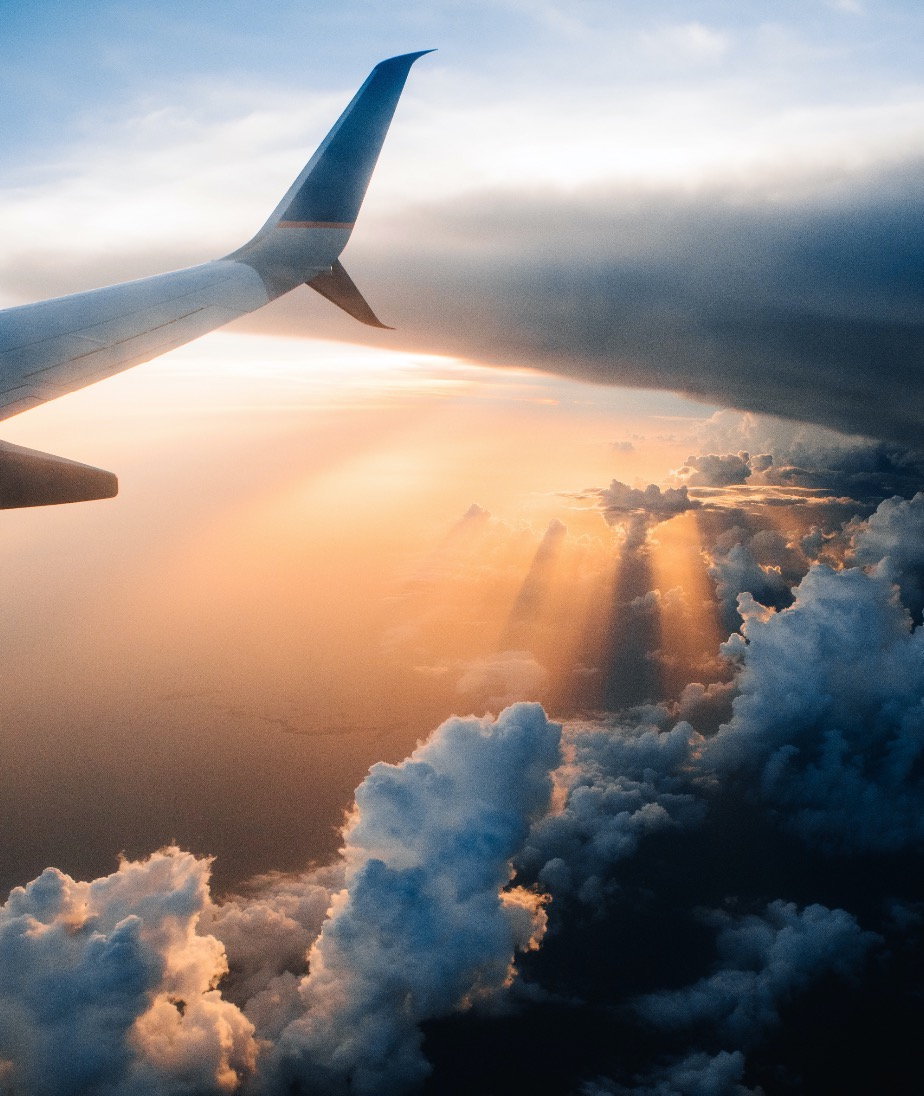
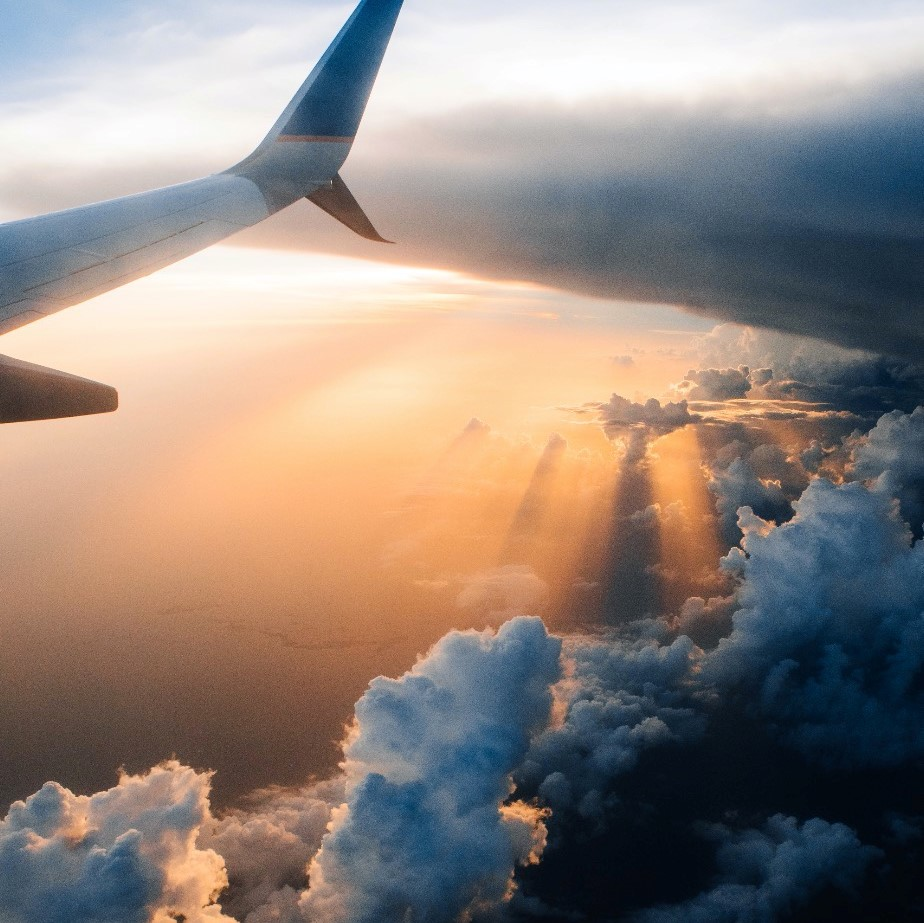
закончил интро

diff --git a/index.html b/index.html
@@ -30,8 +30,12 @@
 
     <main class="content">
 
-      <section class="lead">
-        
+      <section class="intro">
+        <div class="intro__text">
+          <h1 class="intro__heading">Куда я поеду</h1>
+          <h2 class="intro__title">Куда я поеду сразу, как можно будет куда-то поехать</h2>
+        </div>
+        <img class="intro__image" src="./images/intro-image.jpeg">
       </section>
 
       <section class="places">

diff --git a/pages/index.css b/pages/index.css
@@ -6,3 +6,8 @@
 @import url(../blocks/header/__list/header__list.css);
 @import url(../blocks/header/__list-item/header__list-item.css);
 @import url(../blocks/header/__link/header__link.css);
+@import url(../blocks/intro/intro.css);
+@import url(../blocks/intro/__text/intro__text.css);
+@import url(../blocks/intro/__heading/intro__heading.css);
+@import url(../blocks/intro/__title/intro__title.css);
+@import url(../blocks/intro/__image/intro__image.css);

diff --git a/blocks/intro/intro.css b/blocks/intro/intro.css
@@ -1,0 +1,12 @@
+.intro {
+    display: flex;
+    flex-direction: row;
+    justify-content: space-between;
+    margin: 100px auto 0;
+}
+
+@media screen and (max-width: 1600px) {
+    .intro {
+        margin: 100px 80px 0;
+    }
+}

diff --git a/blocks/intro/__image/intro__image.css b/blocks/intro/__image/intro__image.css
@@ -1,0 +1,11 @@
+.intro__image {
+    max-width: 420px;
+    max-height: 420px;
+    margin: 0 auto;
+}
+
+@media screen and (max-width: 1600px) {
+    .intro__image {
+        margin: 0 90px;
+    }
+}

diff --git a/blocks/intro/__heading/intro__heading.css b/blocks/intro/__heading/intro__heading.css
@@ -1,0 +1,8 @@
+.intro__heading {
+    color: #FECDA7;
+    text-transform: uppercase;
+    font-size: 14px;
+    font-weight: normal;
+    margin: 20px 0 0;
+    word-spacing: 0.3em;
+}

diff --git a/blocks/intro/__text/intro__text.css b/blocks/intro/__text/intro__text.css
@@ -1,0 +1,6 @@
+.intro__text {
+    display: flex;
+    flex-direction: column;
+    justify-content: center;
+    align-items: flex-start;
+}

diff --git a/blocks/header/__link/header__link.css b/blocks/header/__link/header__link.css
@@ -3,7 +3,6 @@
     font-size: 15px;
     font-weight: bold;
     color: black;
-    letter-spacing: 0.9;
 }
 
 .header__link:hover {

diff --git a/blocks/intro/__title/intro__title.css b/blocks/intro/__title/intro__title.css
@@ -1,0 +1,4 @@
+.intro__title {
+    font-size: 42px;
+    font-weight: bold;
+}
